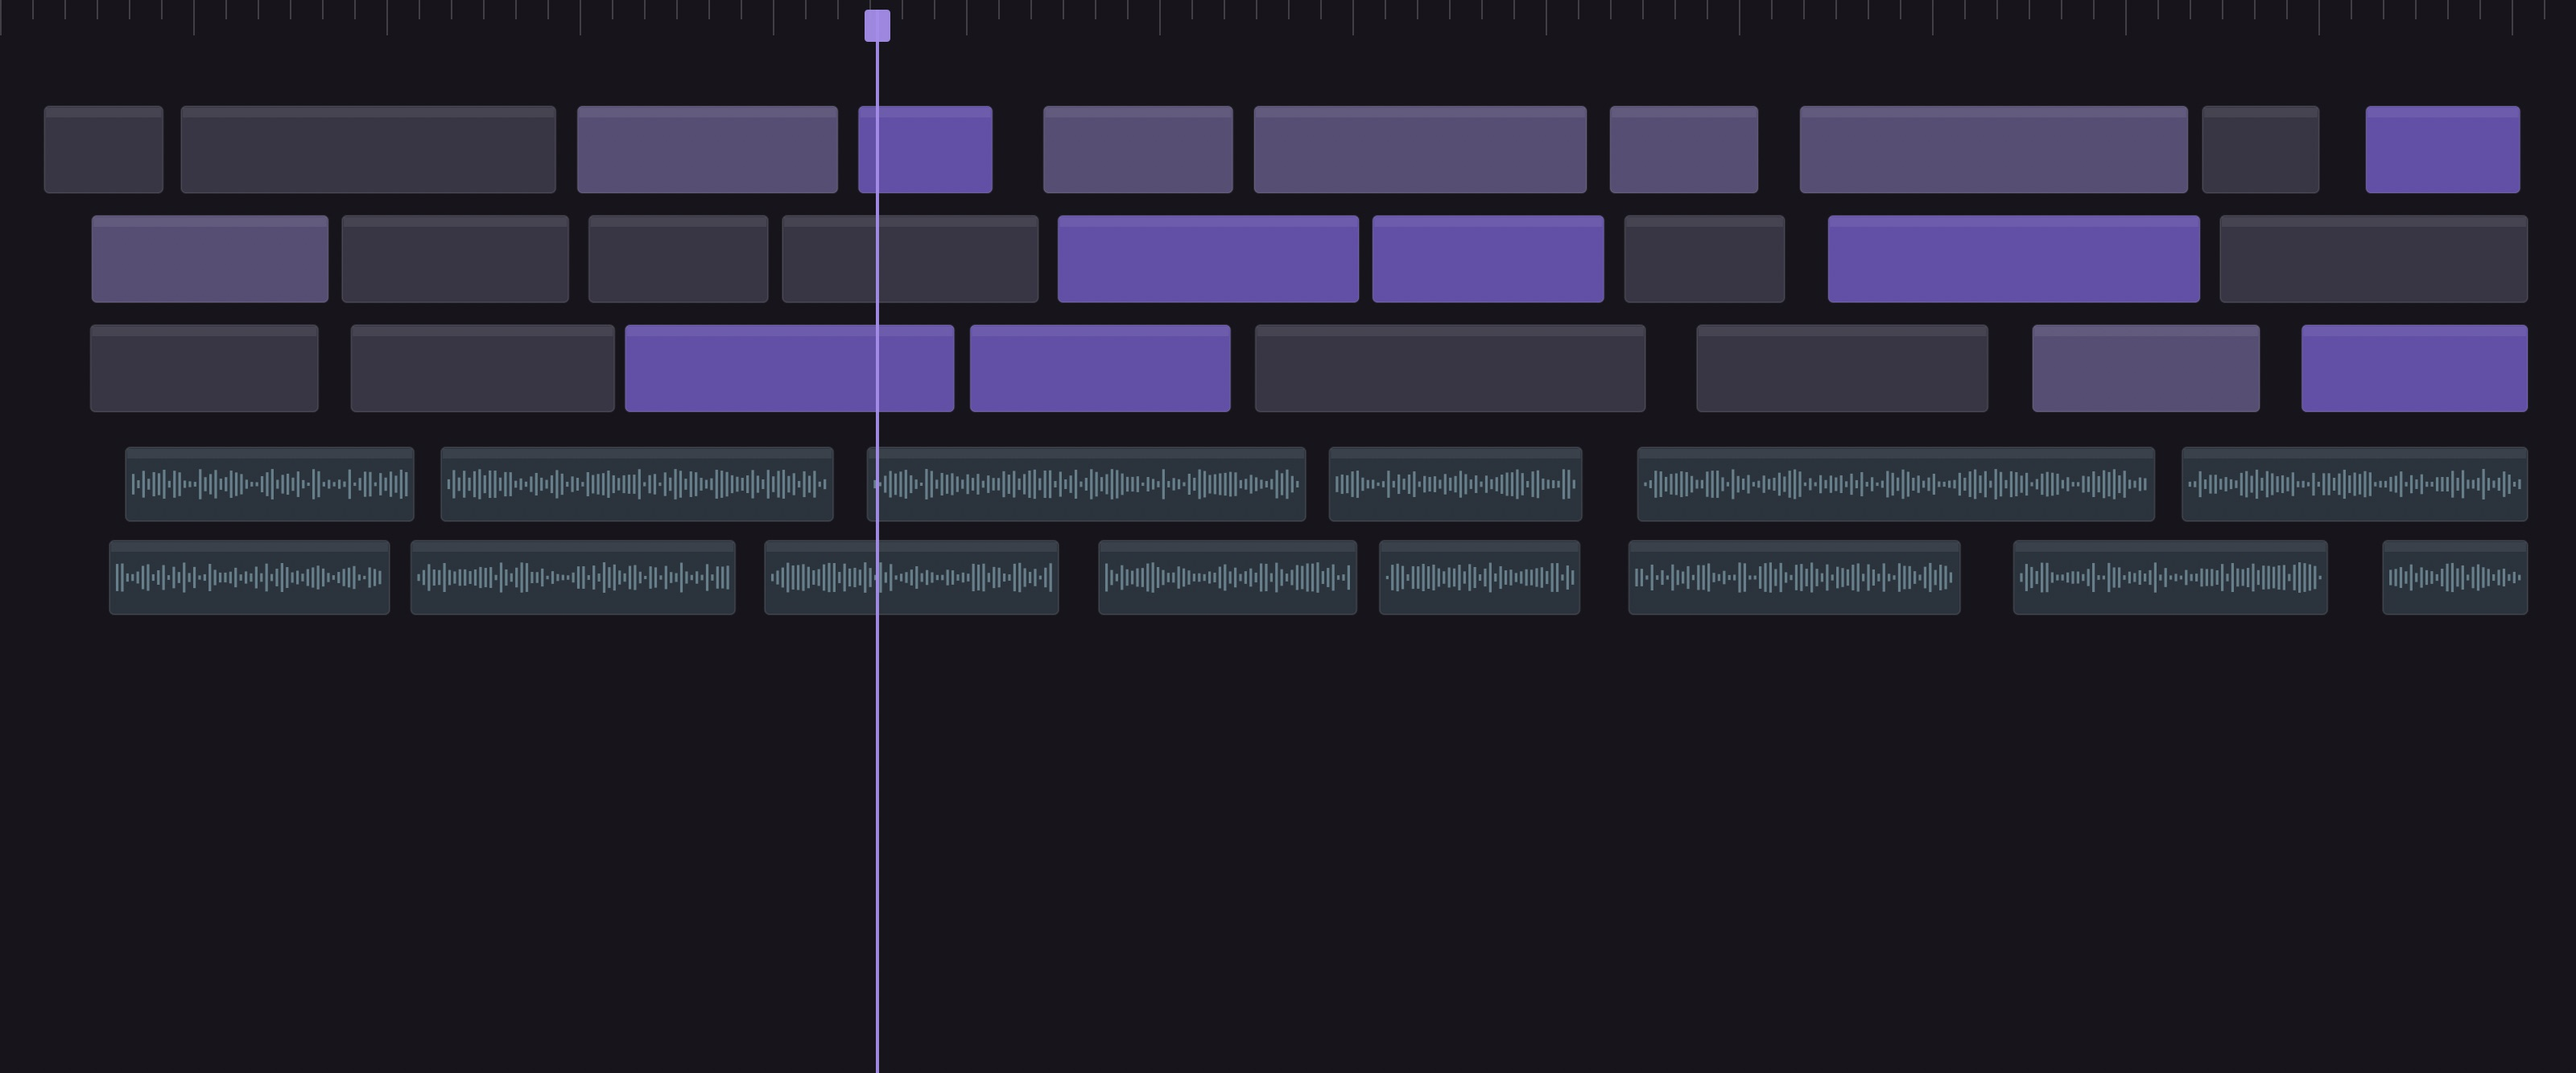
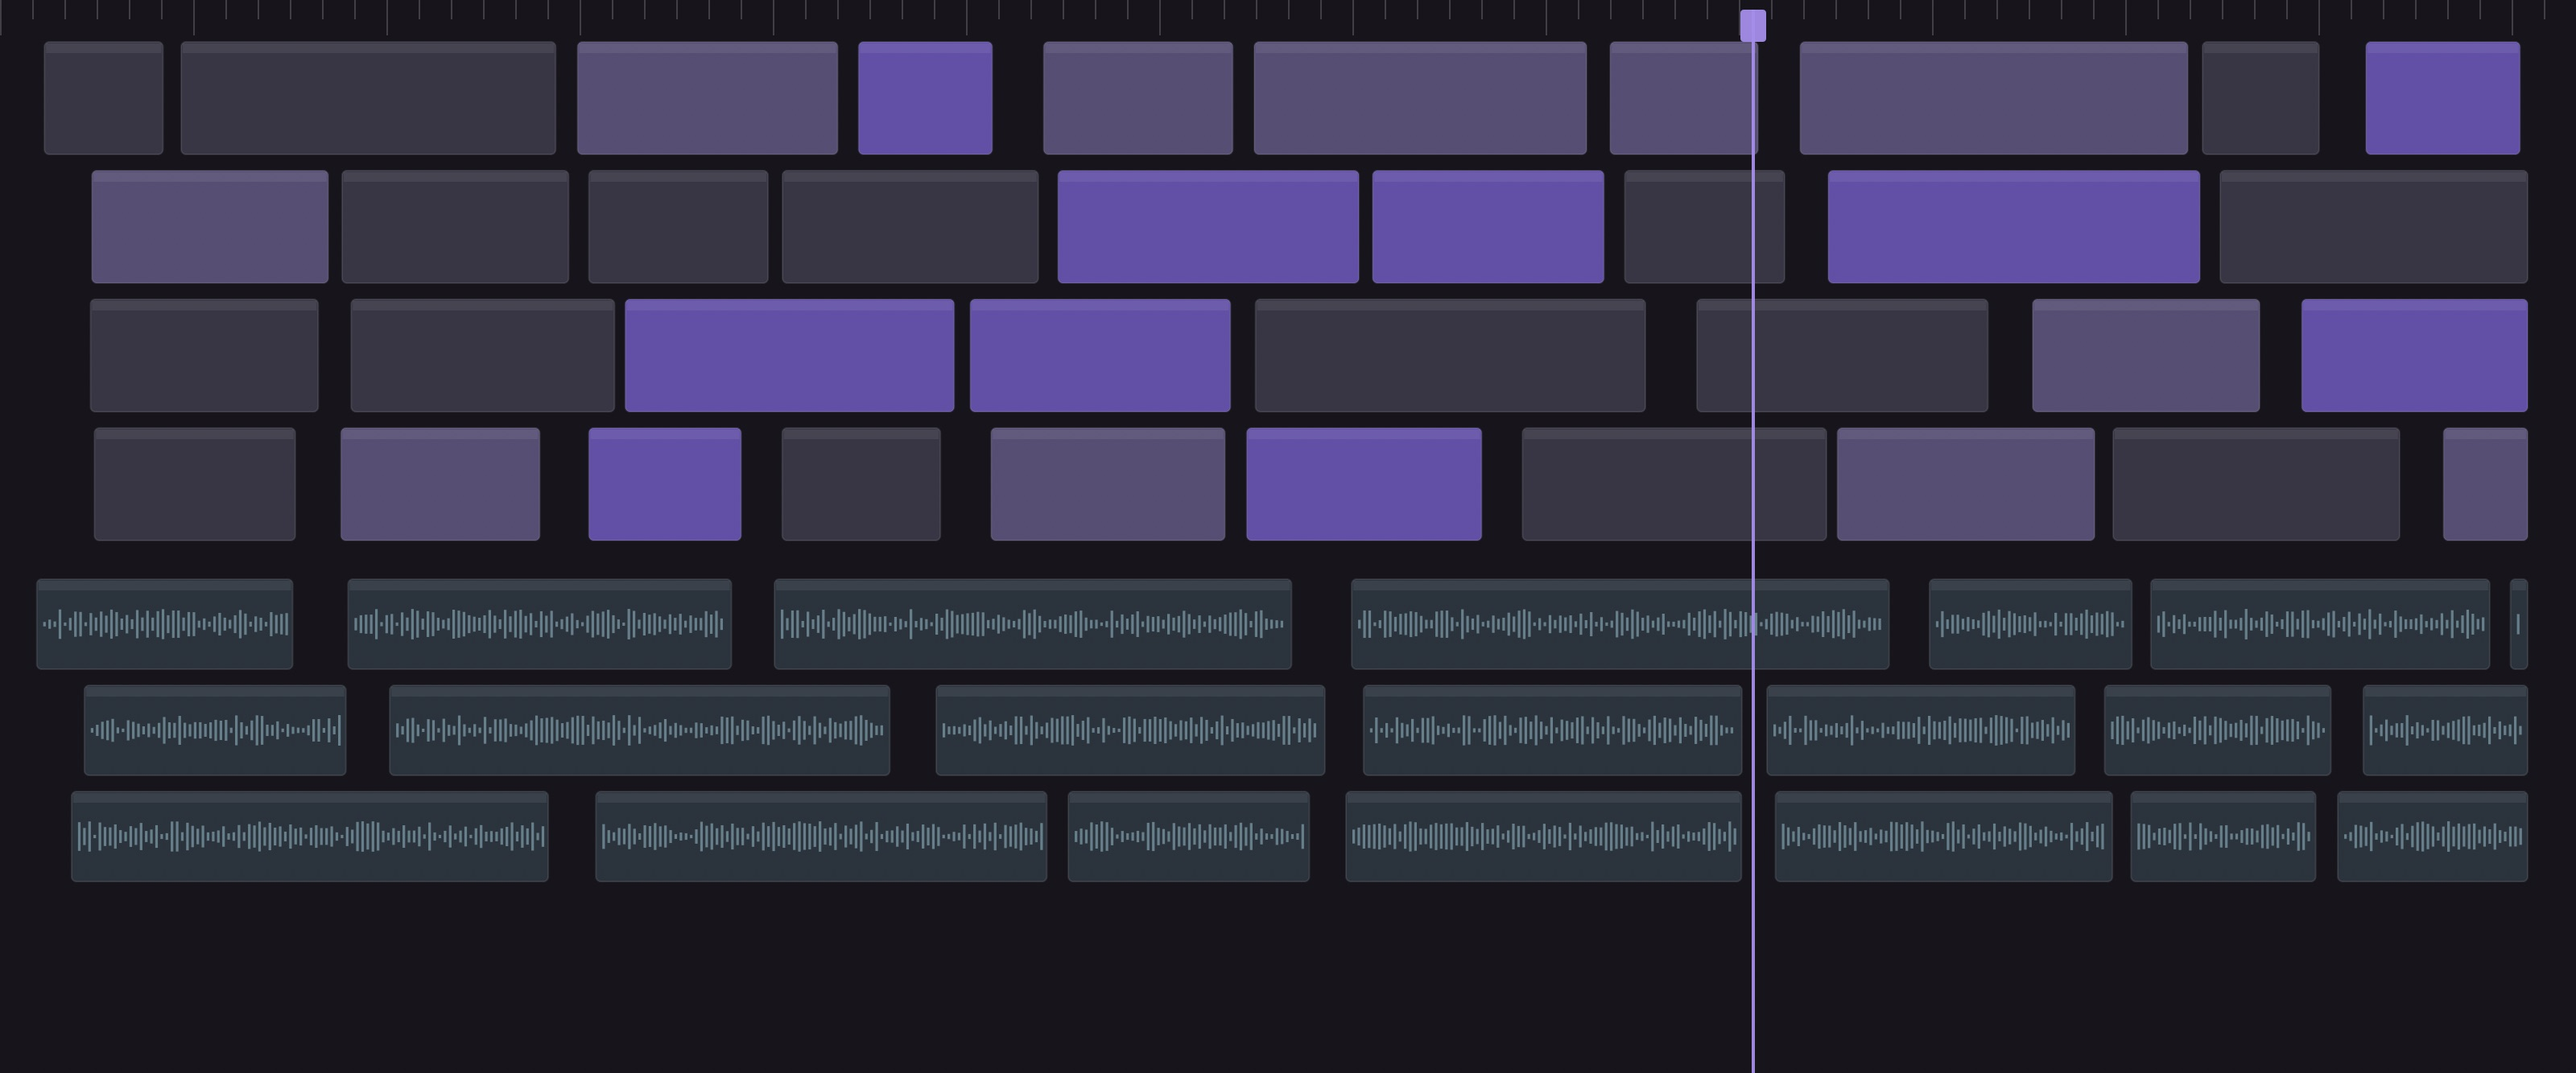
Hero timeline: fill the frame, move the playhead clear of the headline
Four video tracks and three audio instead of three and two, taller, so
the timeline occupies the frame rather than sitting in a band across the
top. The playhead moves from 34% to 68% so it no longer runs through
"MADE IN THE EDIT".

Claude-Session: https://claude.ai/code/session_018TK6EAQYqQA5nZZBtGK1QY

diff --git a/assets/timeline_art.swift b/assets/timeline_art.swift
@@ -35,40 +35,40 @@ func clip(_ x: Double, _ y: Double, _ w: Double, _ h: Double, _ c: NSColor) {
 }
 
 // three video tracks
-var trackY = H - 120.0
-for t in 0..<3 {
+var trackY = H - 96.0
+for t in 0..<4 {
     var cx = 20.0 + rnd() * 40
     while cx < W - 30 {
         let cw = 70 + rnd() * 190
         let c = (rnd() > 0.78) ? lav.withAlphaComponent(0.85)
               : (rnd() > 0.6 ? slate.blended(withFraction: 0.25, of: lavBright)! : slate)
-        clip(cx, trackY, min(cw, W - 30 - cx), 54, c)
+        clip(cx, trackY, min(cw, W - 30 - cx), 70, c)
         cx += cw + 6 + rnd() * 26
     }
-    trackY -= 68
+    trackY -= 80
     _ = t
 }
 
 // two audio tracks with waveforms
-for _ in 0..<2 {
+for _ in 0..<3 {
     var cx = 20.0 + rnd() * 60
     while cx < W - 30 {
         let cw = min(110 + rnd() * 240, W - 30 - cx)
-        clip(cx, trackY, cw, 46, NSColor(srgbRed: 0.16, green: 0.20, blue: 0.24, alpha: 1))
+        clip(cx, trackY, cw, 56, NSColor(srgbRed: 0.16, green: 0.20, blue: 0.24, alpha: 1))
         NSColor(srgbRed: 0.55, green: 0.75, blue: 0.80, alpha: 0.55).setFill()
         var wx = cx + 4
         while wx < cx + cw - 4 {
             let a = (2 + rnd() * 17)
-            NSRect(x: wx, y: trackY + 23 - a / 2, width: 1.6, height: a).fill()
+            NSRect(x: wx, y: trackY + 28 - a / 2, width: 1.6, height: a).fill()
             wx += 3.2
         }
         cx += cw + 8 + rnd() * 30
     }
-    trackY -= 58
+    trackY -= 66
 }
 
 // playhead
-let px = W * 0.34
+let px = W * 0.68
 lavBright.withAlphaComponent(0.95).setFill()
 NSRect(x: px, y: 0, width: 2, height: H - 6).fill()
 NSBezierPath(roundedRect: NSRect(x: px - 7, y: H - 26, width: 16, height: 20), xRadius: 2, yRadius: 2).fill()
